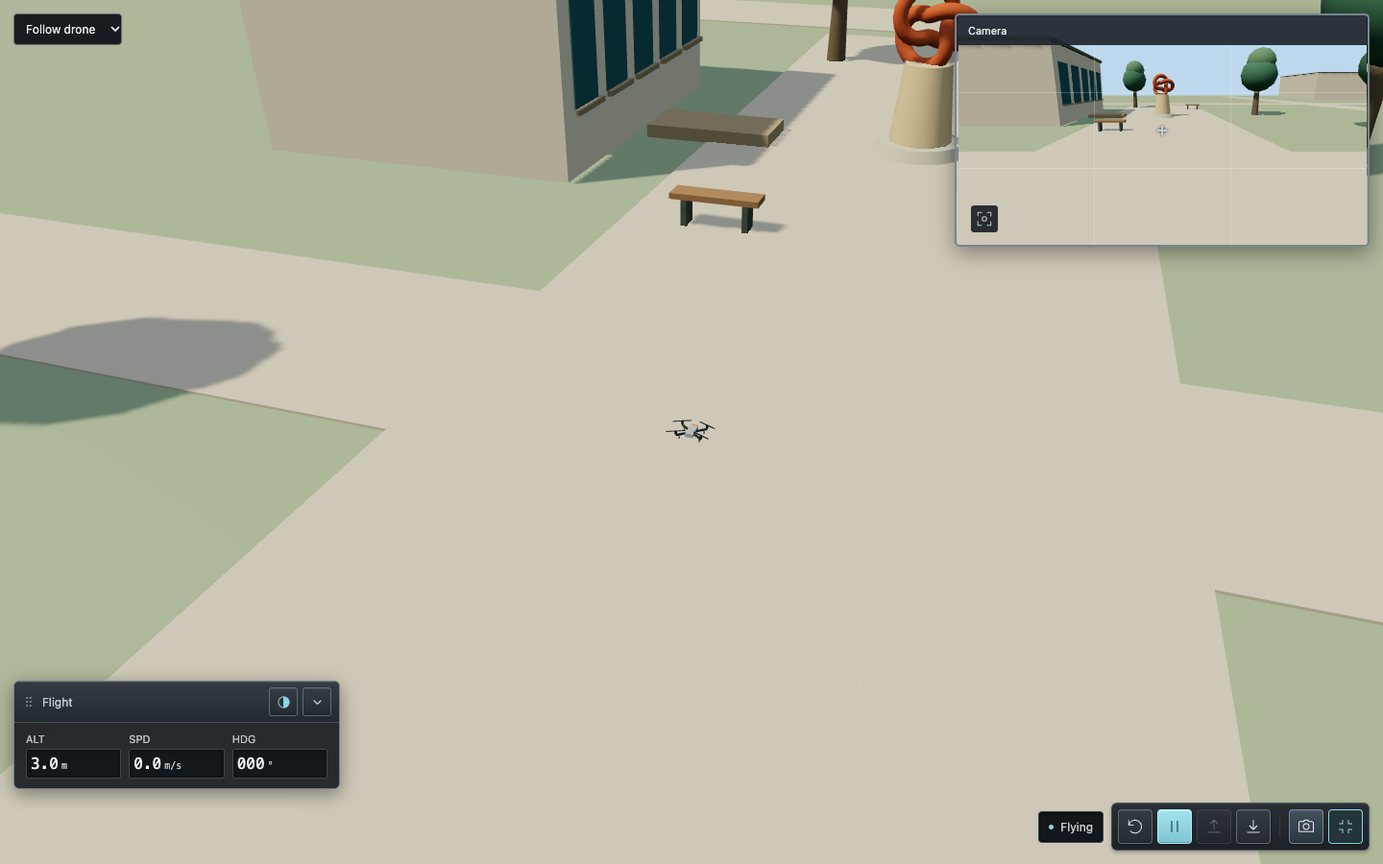
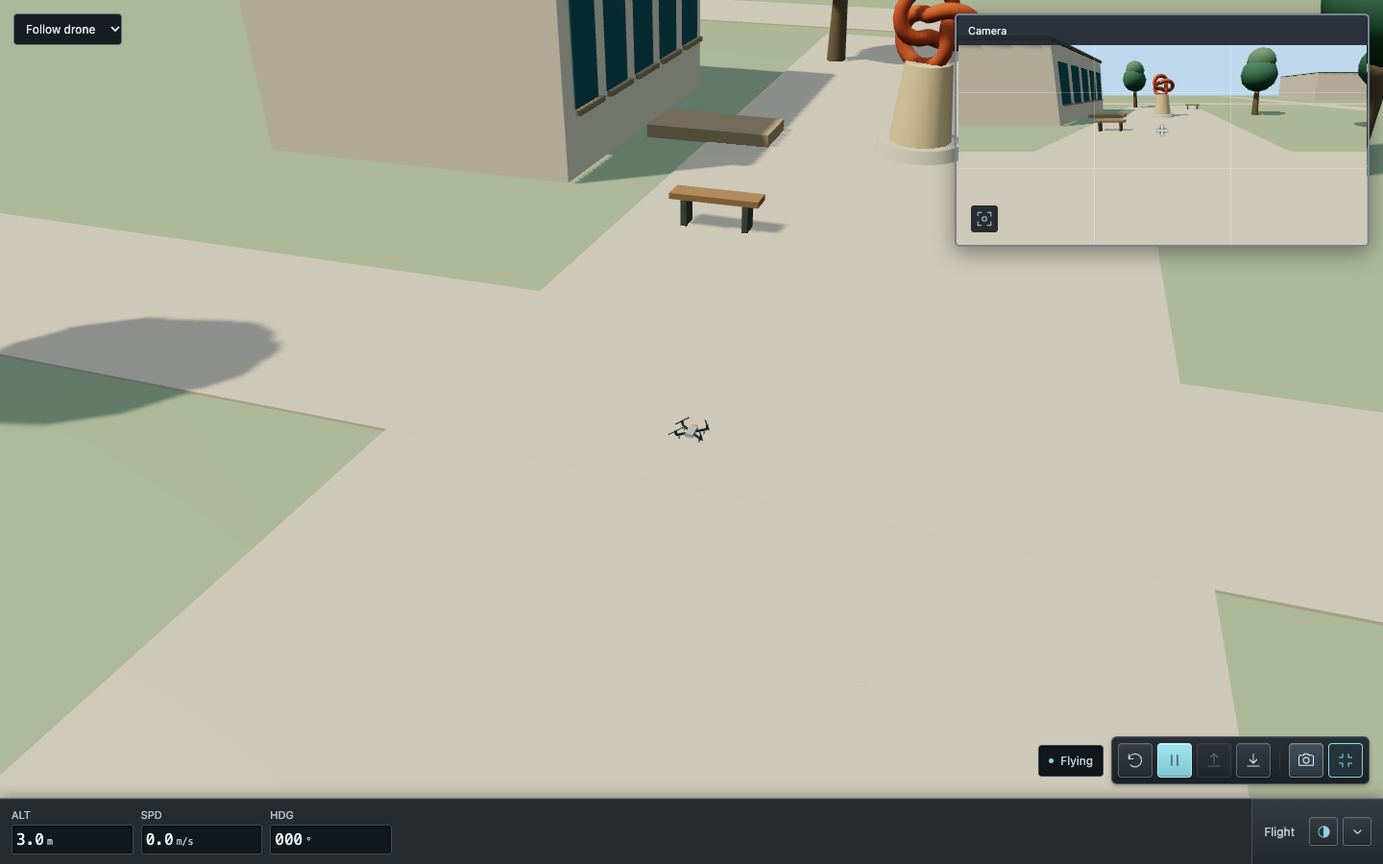
fix: removed floating window

Changed region(s): [[0.0, 0.7778, 1.0, 1.0]]

diff --git a/src/workspace.css b/src/workspace.css
@@ -75,7 +75,7 @@
 .layout-option { border: 1px solid #606c76; border-radius: 3px; background: linear-gradient(#343b42, #252b31); color: #d0d8de; box-shadow: inset 0 1px #ffffff12, inset 0 -1px #0005; }
 .layout-option[aria-pressed=true] { background: #25343a; color: var(--accent); border-color: var(--accent); }
 .layout-option:hover { color: var(--text); background: #30373d; }
-.layout-option:focus-visible, .instrument-button:focus-visible, .panel-handle:focus-visible { outline: 2px solid var(--accent); outline-offset: 2px; }
+.layout-option:focus-visible, .instrument-button:focus-visible { outline: 2px solid var(--accent); outline-offset: 2px; }
 .simulator .workspace-bar .button { color: #d0d8de; }
 .split-controls { display: flex; align-items: center; padding-left: 10px; border-left: 1px solid var(--line); }
 .flight-status { display: inline-flex; align-items: center; gap: 7px; margin-left: auto; padding: 8px 10px; color: #c4ccd2; font: var(--text-sm) var(--ui); white-space: nowrap; border: 1px solid #3a444d; background: #11171b; border-radius: 4px; box-shadow: inset 0 1px 3px #0008, 0 1px #ffffff08; }
@@ -118,28 +118,25 @@
 .view-divider:hover, .view-divider:focus-visible, .is-resizing .view-divider { background-color: var(--accent); }
 .view-divider:focus-visible { outline: 1px solid var(--accent); outline-offset: 0; }
 .is-resizing { user-select: none; }
-.flight-panel { position: absolute; z-index: 5; width: 432px; max-width: calc(100% - 28px); background: #1c2024; border: 1px solid #70808c; border-radius: 6px; box-shadow: inset 0 1px #ffffff15, 0 5px 18px #0006; overflow: hidden; container-type: inline-size; }
+.flight-panel { position: absolute; z-index: 5; bottom: 0; left: 0; width: 100%; max-width: none; display: grid; grid-template-columns: minmax(0, 1fr) auto; background: #1c2024; border: 0; border-top: 1px solid #70808c; border-radius: 0; box-shadow: inset 0 1px #ffffff15, 0 -3px 12px #0004; overflow: hidden; container-type: inline-size; }
 .flight-panel.is-glass { background: #161a1ee6; backdrop-filter: blur(10px); -webkit-backdrop-filter: blur(10px); }
-.flight-panel.is-dragging { border-color: var(--accent); }
-.instrument-header { display: flex; align-items: center; gap: 5px; border-bottom: 1px solid #46505a; padding: 6px 8px; background: linear-gradient(#394149c9, #222930c9); box-shadow: inset 0 1px #ffffff12; }
-.panel-handle { display: flex; align-items: center; gap: 7px; flex: 1; min-width: 0; min-height: 30px; border: 0; padding: 5px 0; text-align: left; background: transparent; font: var(--text-sm) var(--ui); color: #c4ccd2; cursor: grab; touch-action: none; }
-.panel-handle:active { cursor: grabbing; }
-.drag-grip { display: inline-flex; color: var(--muted); }
-.drag-grip .ui-icon { width: 14px; height: 14px; }
+.instrument-header { grid-column: 2; grid-row: 1; display: flex; align-items: center; gap: 5px; border-left: 1px solid #46505a; padding: 8px 12px; background: linear-gradient(#394149c9, #222930c9); box-shadow: inset 0 1px #ffffff12; }
+.instrument-title { margin-right: 10px; font: var(--text-sm) var(--ui); color: #c4ccd2; }
 .instrument-button { display: inline-flex; align-items: center; justify-content: center; width: 30px; height: 30px; background: linear-gradient(#343b42, #252b31); border: 1px solid #606c76; border-radius: 3px; padding: 0; color: #d0d8de; box-shadow: inset 0 1px #ffffff12, inset 0 -1px #0005; }
 .instrument-button .ui-icon { width: 15px; height: 15px; }
 .instrument-button:hover { border-color: var(--control-border); color: var(--text); }
 .instrument-button[aria-pressed=true] { color: var(--accent); }
-.simulator .telemetry { background: transparent; border: 0; padding: 15px 14px 13px; gap: 10px; grid-template-columns: repeat(4, minmax(0, 1fr)); }
+.simulator .telemetry { grid-column: 1; grid-row: 1; width: 100%; max-width: 640px; background: transparent; border: 0; padding: 12px 14px; gap: 10px; grid-template-columns: repeat(4, minmax(0, 1fr)); }
 .simulator .telemetry > div > span:first-child { font: var(--text-xs) var(--ui); color: #bac4cb; text-transform: uppercase; letter-spacing: 0; white-space: nowrap; }
 .simulator .telemetry strong { display: flex; align-items: baseline; gap: 4px; font: 24px var(--mono); font-variant-numeric: tabular-nums; color: #f0f3f5; margin-top: 7px; padding: 7px 5px; border: 1px solid #3d4851; border-radius: 3px; background: #10161be6; box-shadow: inset 0 1px 4px #0009, 0 1px #ffffff08; letter-spacing: 0; white-space: nowrap; }
 .simulator .telemetry small { font: 10px var(--mono); color: #bac4cb; letter-spacing: 0; }
 .instrument-scale { height: 2px; background: #63717b; margin-top: 10px; }
 .instrument-scale i { display: block; height: 100%; width: 0; background: var(--accent); }
-.simulator .gimbal-control { flex: none; background: #11171b55; padding: 11px 14px 15px; border-top: 1px solid #3d4851; }
+#flight-panel-body { grid-column: 1 / -1; display: flex; align-items: center; border-top: 1px solid #3d4851; background: #11171b55; }
+.simulator .gimbal-control { flex: 1; min-width: 0; max-width: 500px; background: transparent; padding: 10px 14px 12px; border: 0; }
 .simulator .gimbal-control label { color: #bac4cb; font: var(--text-xs) var(--ui); letter-spacing: 0; margin-bottom: 8px; }
 .simulator .gimbal-control input { display: block; margin: 0; height: 14px; cursor: ew-resize; filter: drop-shadow(0 1px 1px #0006); }
-.instrument-footer { display: flex; justify-content: flex-end; border-top: 1px solid var(--line); padding: 8px 14px; font: var(--text-xs) var(--mono); color: #bac4cb; font-variant-numeric: tabular-nums; }
+.instrument-footer { display: flex; justify-content: flex-end; margin-left: auto; border: 0; padding: 8px 14px; font: var(--text-xs) var(--mono); color: #bac4cb; font-variant-numeric: tabular-nums; white-space: nowrap; }
 .instrument-footer strong { color: #f0f3f5; font-weight: 400; }
 .simulator .flight-strip { position: relative; z-index: 6; padding: 12px 0; gap: 22px; }
 .simulator .flight-strip [data-tooltip]::after { top: auto; bottom: calc(100% + 9px); }
@@ -162,8 +159,7 @@
 .simulator dialog { background: var(--panel); border-color: var(--control-border); border-radius: 4px; }
 .simulator .map-credit { font-size: var(--text-xs); color: var(--muted); }
 .simulator .map-credit a { color: var(--accent); }
-.simulator .flight-panel.is-collapsed { width: 340px; }
-.simulator .flight-panel.is-collapsed .telemetry { grid-template-columns: repeat(3, minmax(0, 1fr)); padding: 10px 12px; gap: 8px; }
+.simulator .flight-panel.is-collapsed .telemetry { max-width: 420px; grid-template-columns: repeat(3, minmax(0, 1fr)); padding: 10px 12px; gap: 8px; }
 .simulator .flight-panel.is-collapsed .telemetry > div:last-child, .simulator .flight-panel.is-collapsed .instrument-scale { display: none; }
 .simulator .flight-panel.is-collapsed .telemetry strong { font-size: 16px; gap: 3px; margin-top: 4px; padding: 5px 4px; }
 .collision-prompt { position: absolute; z-index: 12; top: 50%; left: 50%; transform: translate(-50%, -50%); width: 360px; max-width: calc(100% - 32px); padding: 22px; border: 1px solid #ab8860; border-radius: 7px; background: linear-gradient(#302c27, #20201f); box-shadow: inset 0 1px #fff1, 0 12px 40px #0007; }
@@ -191,10 +187,8 @@
 .simulator [data-layout=classic] .camera-column { container-type: normal; display: flex; flex-direction: column; align-items: stretch; justify-content: flex-start; }
 .simulator [data-layout=classic] .camera-title { position: static; padding: 14px; background: var(--panel); }
 .simulator [data-layout=classic] .camera-view { width: 100%; margin: 0 auto; }
-.simulator [data-layout=classic] .flight-panel { position: static; width: 100%; max-width: none; flex: none; margin-top: auto; border: 0; border-top: 1px solid var(--line); border-radius: 0; box-shadow: none; background: var(--panel); backdrop-filter: none; -webkit-backdrop-filter: none; }
-.simulator [data-layout=classic] .panel-handle { opacity: 1; cursor: default; }
-.simulator [data-layout=classic] .drag-grip { display: none; }
-.simulator [data-layout=classic] #panel-glass { display: none; }
+.simulator [data-layout=classic] .flight-panel { position: static; width: 100%; max-width: none; flex: none; margin-top: auto; border: 0; border-top: 1px solid var(--line); border-radius: 0; box-shadow: none; }
+.simulator [data-layout=classic] .instrument-title { display: none; }
 
 @media (min-width: 1800px) {
   .simulator { padding-inline: 40px; }
@@ -247,8 +241,10 @@
   .simulator .view-options { justify-content: flex-start; flex-wrap: wrap; gap: 13px; }
 }
 /* Fit readings to the instrument width, including the narrow Classic sidebar. */
-@container (max-width: 410px) {
+@container (max-width: 560px) {
   .simulator .telemetry { grid-template-columns: repeat(2, minmax(0, 1fr)); }
+  .instrument-header { flex-direction: column; justify-content: center; padding: 8px; }
+  .instrument-title { display: none; }
 }
 body.flight-fullscreen { overflow: hidden; }
 .simulator.is-fullscreen { position: relative; width: 100%; height: 100dvh; min-height: 0; padding: 0; display: block; overflow: hidden; background: #181c20; }
@@ -263,13 +259,9 @@ body.flight-fullscreen { overflow: hidden; }
 .simulator.is-fullscreen[data-layout=observer] .camera-column { display: none; }
 .simulator.is-fullscreen[data-layout=camera] .camera-column { position: relative; inset: auto; grid-column: 1; grid-row: 1; width: 100%; height: 100%; aspect-ratio: auto; border: 0; border-radius: 0; box-shadow: none; }
 .simulator.is-fullscreen[data-layout=camera] .camera-title { display: none; }
-.simulator.is-fullscreen .flight-panel { position: absolute; width: 432px; max-width: calc(100% - 28px); margin: 0; border: 1px solid #70808c; border-radius: 6px; box-shadow: inset 0 1px #ffffff15, 0 5px 18px #0006; background: #1c2024; }
+.simulator.is-fullscreen .flight-panel { position: absolute; bottom: 0; left: 0; width: 100%; max-width: none; margin: 0; border: 0; border-top: 1px solid #70808c; border-radius: 0; box-shadow: inset 0 1px #ffffff15, 0 -3px 12px #0004; background: #1c2024; }
 .simulator.is-fullscreen .flight-panel.is-glass { background: #161a1ee6; backdrop-filter: blur(10px); -webkit-backdrop-filter: blur(10px); }
-.simulator.is-fullscreen .flight-panel.is-collapsed { width: 340px; }
-.simulator.is-fullscreen .drag-grip, .simulator.is-fullscreen #panel-glass { display: inline-flex; }
-.simulator.is-fullscreen .panel-handle { cursor: grab; }
-.simulator.is-fullscreen .panel-handle:active { cursor: grabbing; }
-.simulator.is-fullscreen .flight-strip { position: absolute; z-index: 7; right: 14px; bottom: 14px; display: flex; flex-wrap: wrap; align-items: center; justify-content: flex-end; gap: 8px; max-width: calc(100% - 28px); padding: 0; margin: 0; border: 0; }
+.simulator.is-fullscreen .flight-strip { position: absolute; z-index: 7; right: 14px; bottom: calc(var(--flight-data-height, 84px) + 14px); display: flex; flex-wrap: wrap; align-items: center; justify-content: flex-end; gap: 8px; max-width: calc(100% - 28px); padding: 0; margin: 0; border: 0; }
 .simulator.is-fullscreen .flight-actions { gap: 5px; flex-wrap: nowrap; }
 .simulator.is-fullscreen .flight-status { margin-left: 0; }
 .simulator.is-fullscreen .flight-strip :is(.view-options, .source-control) { display: none; }

diff --git a/tests/browser/trainer.spec.ts b/tests/browser/trainer.spec.ts
@@ -181,8 +181,11 @@ test('hidden laptop pauses flight and camera-only mode stays usable', async ({ p
   await expect(page.locator('#flight-status')).toHaveAttribute('data-mode', 'grounded');
 });
 
-test('workspace layouts resize, instruments move and preferences persist', async ({ page }) => {
+test('workspace layouts resize, instruments stay docked and preferences persist', async ({ page }) => {
   const errors: string[] = []; page.on('pageerror', (error) => errors.push(error.message));
+  await page.addInitScript(() => {
+    if (!localStorage.getItem('trainer-workspace-v1')) localStorage.setItem('trainer-workspace-v1', JSON.stringify({ panelX: 1, panelY: 0 }));
+  });
   await page.goto('/'); await expect(page.locator('#connection-status')).toContainText('Keyboard');
   await expect(page.locator('.station-brand')).toHaveText('TAKEOFF');
   await expect(page.getByText('Paused', { exact: true })).toHaveCount(1);
@@ -205,11 +208,11 @@ test('workspace layouts resize, instruments move and preferences persist', async
   await expect(divider).toHaveAttribute('aria-valuenow', '47');
   const cameraBox = (await page.locator('#camera-view').boundingBox())!;
   expect(cameraBox.width / cameraBox.height).toBeCloseTo(16 / 9, 2);
-  const initialPanel = (await panel.boundingBox())!, handle = (await page.locator('#panel-handle').boundingBox())!;
-  await page.mouse.move(handle.x + handle.width / 2, handle.y + handle.height / 2);
-  await page.mouse.down(); await page.mouse.move(handle.x + handle.width / 2 + 160, handle.y + handle.height / 2 - 150); await page.mouse.up();
-  expect((await panel.boundingBox())!.x).toBeGreaterThan(initialPanel.x + 100);
-  expect((await panel.boundingBox())!.y).toBeLessThan(initialPanel.y - 100);
+  await expect(page.locator('#panel-handle')).toHaveCount(0);
+  const initialPanel = (await panel.boundingBox())!;
+  expect(initialPanel.x).toBeCloseTo(stageBox.x + 1, 0);
+  expect(initialPanel.width).toBeCloseTo(stageBox.width - 2, 0);
+  expect(initialPanel.y + initialPanel.height).toBeCloseTo(stageBox.y + stageBox.height - 1, 0);
   await page.locator('#panel-glass').click(); await expect(panel).not.toHaveClass(/is-glass/);
   await page.keyboard.press('Space'); await expect(panel).toHaveClass(/is-glass/);
   await expect(page.locator('#pause')).toHaveAttribute('aria-label', 'Start practice');
@@ -220,7 +223,9 @@ test('workspace layouts resize, instruments move and preferences persist', async
   await page.reload(); await expect(stage).toHaveAttribute('data-layout', 'split');
   await expect(divider).toHaveAttribute('aria-valuenow', '47');
   await expect(panel).not.toHaveClass(/is-glass/); await expect(page.locator('#flight-panel-body')).toBeHidden();
-  expect((await panel.boundingBox())!.x).toBeGreaterThan(initialPanel.x + 100);
+  expect((await panel.boundingBox())!.x).toBeCloseTo(initialPanel.x, 0);
+  const reloadedPanel = (await panel.boundingBox())!, reloadedStage = (await stage.boundingBox())!;
+  expect(reloadedPanel.y + reloadedPanel.height).toBeCloseTo(reloadedStage.y + reloadedStage.height - 1, 0);
   await page.locator('#panel-collapse').click();
   await page.getByRole('button', { name: 'Stacked', exact: true }).click(); await expect(stage).toHaveAttribute('data-layout', 'stacked');
   await expect(divider).toHaveAttribute('aria-orientation', 'horizontal');
@@ -234,7 +239,11 @@ test('workspace layouts resize, instruments move and preferences persist', async
   await expect(page.locator('#camera-view')).toBeVisible(); await expect(panel).toBeVisible();
   await page.locator('#pause').click(); await expect(page.locator('#flight-status')).toHaveAttribute('data-paused', 'true');
   await page.getByRole('button', { name: 'Classic', exact: true }).click();
-  await expect(page.locator('#camera-column #flight-panel')).toBeVisible(); await expect(page.locator('#panel-handle')).toBeDisabled();
+  await expect(page.locator('#camera-column #flight-panel')).toBeVisible();
+  const classicBackground = await panel.evaluate((element) => getComputedStyle(element).backgroundColor);
+  await page.locator('#panel-glass').click();
+  expect(await panel.evaluate((element) => getComputedStyle(element).backgroundColor)).not.toBe(classicBackground);
+  await page.locator('#panel-glass').click();
   await page.setViewportSize({ width: 1920, height: 720 });
   await expect.poll(async () => {
     const instruments = (await panel.boundingBox())!, workspace = (await stage.boundingBox())!;
@@ -257,6 +266,8 @@ test('workspace layouts resize, instruments move and preferences persist', async
     await page.getByRole('combobox', { name: 'View layout', exact: true }).selectOption(layout);
     await expect(page.locator('#observer-view')).toBeVisible(); await expect(panel).toBeVisible();
     expect(await page.evaluate(() => document.documentElement.scrollWidth)).toBeLessThanOrEqual(390);
+    const instruments = (await panel.boundingBox())!, workspace = (await stage.boundingBox())!;
+    expect(instruments.y + instruments.height).toBeCloseTo(workspace.y + workspace.height - 1, 0);
   }
   await page.getByRole('combobox', { name: 'View layout', exact: true }).selectOption('camera');
   await expect(page.locator('#observer-view')).toBeHidden(); await expect(panel).toBeVisible();
@@ -315,7 +326,7 @@ test('fullscreen fills the window with flight views and restores desktop compone
     expect((await stage.boundingBox())!).toEqual({ x: 0, y: 0, width, height });
     await expect.poll(async () => {
       const instruments = (await panel.boundingBox())!, controls = (await page.locator('#flight-console').boundingBox())!;
-      return instruments.x >= 0 && instruments.y >= 0 && instruments.x + instruments.width <= width && instruments.y + instruments.height <= controls.y && controls.x >= 0 && controls.x + controls.width <= width && controls.y + controls.height <= height;
+      return instruments.x === 0 && instruments.y >= 0 && instruments.width === width && Math.abs(instruments.y + instruments.height - height) < 1 && controls.x >= 0 && controls.x + controls.width <= width && controls.y + controls.height < instruments.y;
     }).toBe(true);
     for (const id of ['takeoff', 'land', 'capture', 'reset', 'simulator-fullscreen']) {
       const button = (await page.locator(`#${id}`).boundingBox())!;
@@ -336,10 +347,12 @@ test('fullscreen fills the window with flight views and restores desktop compone
     expect((await stage.boundingBox())!).toEqual(workspace);
     if (layout === 'camera') { await expect(page.locator('#observer-view')).toBeHidden(); await expect(page.locator('#camera-view')).toBeVisible(); }
     else { expect((await page.locator('#observer-view').boundingBox())!).toEqual(workspace); }
-    await expect(page.locator('#panel-handle')).toBeEnabled();
+    await expect(page.locator('#panel-handle')).toHaveCount(0);
+    const instruments = (await panel.boundingBox())!;
+    expect(instruments.y + instruments.height).toBeCloseTo(workspace.height, 0);
     await page.locator('#simulator-fullscreen').click(); await expect(root).not.toHaveClass(/is-fullscreen/);
     await expect(stage).toHaveAttribute('data-layout', layout);
-    if (layout === 'classic') { await expect(page.locator('#camera-column #flight-panel')).toBeVisible(); await expect(page.locator('#panel-handle')).toBeDisabled(); }
+    if (layout === 'classic') await expect(page.locator('#camera-column #flight-panel')).toBeVisible();
   }
 });
 

diff --git a/src/workspace.ts b/src/workspace.ts
@@ -8,19 +8,17 @@ type WorkspaceSettings = {
   stackedSplit: number;
   glass: boolean;
   collapsed: boolean;
-  panelX: number;
-  panelY: number;
 };
 
 const storageKey = 'trainer-workspace-v1';
-const defaults: WorkspaceSettings = { layout: 'split', split: 62, stackedSplit: 50, glass: true, collapsed: false, panelX: 0, panelY: 1 };
+const defaults: WorkspaceSettings = { layout: 'split', split: 62, stackedSplit: 50, glass: true, collapsed: false };
 const layouts: ViewLayout[] = ['split', 'stacked', 'camera', 'observer', 'classic'];
 const clamp = (value: number, min: number, max: number) => Math.max(min, Math.min(max, value));
 
 export function bindWorkspace(root: HTMLElement): { setFullscreen: (active: boolean) => void } {
   const el = <T extends HTMLElement = HTMLElement>(id: string) => root.querySelector<T>(`#${id}`)!;
   const stage = el('stage'), panel = el('flight-panel'), column = el('camera-column'), camera = el('camera-view');
-  const divider = el('view-divider'), handle = el<HTMLButtonElement>('panel-handle'), body = el('flight-panel-body');
+  const divider = el('view-divider'), body = el('flight-panel-body');
   const console = el('flight-console'), actions = root.querySelector<HTMLElement>('.flight-actions')!;
   const status = el('flight-status'), statusHome = status.parentElement!;
   const transport = el('transport-controls'), utility = el('utility-controls');
@@ -31,9 +29,9 @@ export function bindWorkspace(root: HTMLElement): { setFullscreen: (active: bool
   try {
     const saved = JSON.parse(localStorage.getItem(storageKey) ?? '{}') as Partial<WorkspaceSettings>;
     if (layouts.includes(saved.layout as ViewLayout)) settings.layout = saved.layout!;
-    for (const key of ['split', 'stackedSplit', 'panelX', 'panelY'] as const) {
+    for (const key of ['split', 'stackedSplit'] as const) {
       if (typeof saved[key] === 'number' && Number.isFinite(saved[key])) {
-        settings[key] = clamp(saved[key], key.endsWith('Split') || key === 'split' ? 25 : 0, key.endsWith('Split') || key === 'split' ? 75 : 1);
+        settings[key] = clamp(saved[key], 25, 75);
       }
     }
     if (typeof saved.glass === 'boolean') settings.glass = saved.glass;
@@ -48,16 +46,7 @@ export function bindWorkspace(root: HTMLElement): { setFullscreen: (active: bool
     const height = Math.max(0, column.clientHeight - column.querySelector<HTMLElement>('.camera-title')!.offsetHeight - panel.offsetHeight);
     camera.style.width = `${Math.min(column.clientWidth, height * 16 / 9)}px`;
   };
-  const panelSpace = () => ({
-    x: Math.max(0, stage.clientWidth - panel.offsetWidth - 28),
-    y: Math.max(0, stage.clientHeight - panel.offsetHeight - 14 - (fullscreen ? console.offsetHeight + 28 : 44)),
-  });
-  const positionPanel = () => {
-    if (docked()) return;
-    const inset = 14, { x: availableX, y: availableY } = panelSpace();
-    panel.style.left = `${inset + availableX * settings.panelX}px`;
-    panel.style.top = `${inset + availableY * settings.panelY}px`;
-  };
+  const updatePanelSize = () => { root.style.setProperty('--flight-data-height', `${panel.offsetHeight}px`); fitClassicCamera(); };
   const updateRatio = () => {
     stage.style.setProperty('--view-split', `${ratio()}%`);
     divider.setAttribute('aria-valuenow', String(Math.round(ratio())));
@@ -78,16 +67,13 @@ export function bindWorkspace(root: HTMLElement): { setFullscreen: (active: bool
     setIconButton(el<HTMLButtonElement>('panel-collapse'), collapsed ? 'expand' : 'collapse', collapsed ? 'Expand flight parameters' : 'Collapse flight parameters');
     el('panel-glass').setAttribute('aria-pressed', String(settings.glass));
     setIconButton(el<HTMLButtonElement>('panel-glass'), 'contrast', 'Transparent instrument panel', settings.glass ? 'Glass panel · switch to solid' : 'Solid panel · switch to glass');
-    handle.disabled = docked();
-    handle.setAttribute('aria-label', docked() ? 'Flight parameters docked in Classic layout' : 'Move flight parameters. Drag or use arrow keys.');
     if (docked()) {
       if (panel.parentElement !== column) column.append(panel);
-      panel.style.removeProperty('left'); panel.style.removeProperty('top');
     } else if (panel.parentElement !== stage) stage.append(panel);
     const adjustable = !fullscreen && (settings.layout === 'split' || settings.layout === 'stacked');
     divider.hidden = !adjustable;
     el('split-controls').hidden = !adjustable;
-    updateRatio(); positionPanel(); fitClassicCamera(); save();
+    updateRatio(); updatePanelSize(); save();
   };
   el<HTMLSelectElement>('view-layout').onchange = (event) => { settings.layout = (event.target as HTMLSelectElement).value as ViewLayout; apply(); };
   root.querySelectorAll<HTMLButtonElement>('[data-layout-option]').forEach((button) => {
@@ -125,34 +111,9 @@ export function bindWorkspace(root: HTMLElement): { setFullscreen: (active: bool
     event.preventDefault(); event.stopPropagation();
     setRatio(event.key === 'Home' ? 25 : event.key === 'End' ? 75 : ratio() + (event.key === increase ? 2 : -2)); save();
   };
-  let dragging: { id: number; x: number; y: number; left: number; top: number } | undefined;
-  handle.onpointerdown = (event) => {
-    if (event.button !== 0 || docked()) return;
-    event.preventDefault(); handle.focus();
-    dragging = { id: event.pointerId, x: event.clientX, y: event.clientY, left: panel.offsetLeft, top: panel.offsetTop };
-    handle.setPointerCapture(event.pointerId); panel.classList.add('is-dragging');
-  };
-  handle.onpointermove = (event) => {
-    if (!dragging || event.pointerId !== dragging.id) return;
-    const space = panelSpace();
-    settings.panelX = clamp((dragging.left + event.clientX - dragging.x - 14) / Math.max(1, space.x), 0, 1);
-    settings.panelY = clamp((dragging.top + event.clientY - dragging.y - 14) / Math.max(1, space.y), 0, 1);
-    positionPanel();
-  };
-  const finishDrag = (event: PointerEvent) => { if (event.pointerId === dragging?.id) { dragging = undefined; panel.classList.remove('is-dragging'); save(); } };
-  handle.onpointerup = finishDrag; handle.onpointercancel = finishDrag; handle.onlostpointercapture = finishDrag;
-  handle.onkeydown = (event) => {
-    if (!['ArrowLeft', 'ArrowRight', 'ArrowUp', 'ArrowDown', 'Home'].includes(event.key) || docked()) return;
-    event.preventDefault(); event.stopPropagation();
-    if (event.key === 'Home') { settings.panelX = 0; settings.panelY = 1; }
-    else if (event.key === 'ArrowLeft' || event.key === 'ArrowRight') settings.panelX = clamp(settings.panelX + (event.key === 'ArrowRight' ? 0.05 : -0.05), 0, 1);
-    else settings.panelY = clamp(settings.panelY + (event.key === 'ArrowDown' ? 0.05 : -0.05), 0, 1);
-    positionPanel(); save();
-  };
-  new ResizeObserver(() => { updateRatio(); positionPanel(); fitClassicCamera(); }).observe(stage);
-  new ResizeObserver(() => { positionPanel(); fitClassicCamera(); }).observe(panel);
+  new ResizeObserver(() => { updateRatio(); updatePanelSize(); }).observe(stage);
+  new ResizeObserver(updatePanelSize).observe(panel);
   new ResizeObserver(fitClassicCamera).observe(column);
-  new ResizeObserver(positionPanel).observe(console);
   matchMedia('(max-width: 760px)').addEventListener('change', updateRatio);
   apply();
   return { setFullscreen: (active) => {

diff --git a/src/simulator.ts b/src/simulator.ts
@@ -51,7 +51,7 @@ export async function mount(app: HTMLElement): Promise<void> {
         <div id="view-divider" class="view-divider" role="separator" tabindex="0" aria-label="Resize observer and camera views" aria-orientation="vertical" aria-valuemin="25" aria-valuemax="75" aria-valuenow="62"><span></span></div>
         <aside id="camera-column" class="camera-column"><div class="camera-title"><span>Camera</span><span class="camera-spec" title="16:9 · 64° field of view · 1280 × 720 PNG captures" tabindex="0" aria-label="Camera specifications">${icon('info')}</span></div><div id="camera-view" class="camera-view view"><div id="thirds" class="thirds"><i></i><i></i><i></i><i></i></div><div class="camera-crosshair">+</div><div class="camera-caption"><span id="framing" tabindex="0" role="img" aria-label="Subject not framed" title="Subject not framed">${icon('frame')}</span></div></div></aside>
         <section id="flight-panel" class="flight-panel is-glass" aria-label="Flight parameters">
-          <header class="instrument-header"><button id="panel-handle" class="panel-handle" aria-label="Move flight parameters. Drag or use arrow keys." title="Move flight parameters · drag or use arrow keys"><span class="drag-grip" aria-hidden="true">${icon('grip')}</span>Flight</button><button id="panel-glass" class="instrument-button" aria-label="Transparent instrument panel" aria-pressed="true" title="Glass panel · switch to solid">${icon('contrast')}</button><button id="panel-collapse" class="instrument-button collapse-button" aria-label="Collapse flight parameters" aria-expanded="true" aria-controls="flight-panel-body" title="Collapse flight parameters">${icon('collapse')}</button></header>
+          <header class="instrument-header"><span class="instrument-title">Flight</span><button id="panel-glass" class="instrument-button" aria-label="Transparent instrument panel" aria-pressed="true" title="Glass panel · switch to solid">${icon('contrast')}</button><button id="panel-collapse" class="instrument-button collapse-button" aria-label="Collapse flight parameters" aria-expanded="true" aria-controls="flight-panel-body" title="Collapse flight parameters">${icon('collapse')}</button></header>
           <div class="telemetry" aria-label="Flight readings"><div><span title="Altitude above the ground directly below the drone">ALT</span><strong id="altitude">0.0 <small>m</small></strong><div class="instrument-scale"><i id="altitude-scale"></i></div></div><div><span title="Horizontal ground speed">SPD</span><strong id="speed">0.0 <small>m/s</small></strong><div class="instrument-scale"><i id="speed-scale"></i></div></div><div><span title="Heading">HDG</span><strong id="heading">000 <small>°</small></strong></div><div><span title="Camera gimbal tilt">GMB</span><strong id="gimbal-value">−12 <small>°</small></strong></div></div><div id="flight-panel-body"><div class="gimbal-control"><label for="gimbal" title="Camera tilt · R / F · −90° to +20°">Tilt</label><input id="gimbal" type="range" min="-90" max="20" value="-12" aria-label="Camera gimbal angle" title="Camera tilt · R / F · −90° to +20°"></div><div class="instrument-footer"><span title="Vertical speed · positive while climbing">V/S <strong id="vertical-speed">+0.0</strong> m/s</span></div></div>
         </section>
         <section id="collision-prompt" class="collision-prompt" role="alertdialog" aria-modal="false" aria-labelledby="collision-title" aria-describedby="collision-details" hidden><div class="collision-heading">${icon('warning')}<h2 id="collision-title">Collision</h2></div><p id="collision-details"></p><button id="collision-reset" class="button">${icon('reset')}<span>Reset flight</span></button></section>

diff --git a/src/icons.ts b/src/icons.ts
@@ -24,7 +24,6 @@ const paths = {
   contrast: '<circle cx="12" cy="12" r="9"/><path d="M12 3v18"/><path d="M12 3a9 9 0 0 1 0 18Z" fill="currentColor" stroke="none"/>',
   collapse: '<path d="m6 15 6-6 6 6"/>',
   expand: '<path d="m6 9 6 6 6-6"/>',
-  grip: '<g fill="currentColor" stroke="none"><circle cx="9" cy="5" r="1.5"/><circle cx="15" cy="5" r="1.5"/><circle cx="9" cy="12" r="1.5"/><circle cx="15" cy="12" r="1.5"/><circle cx="9" cy="19" r="1.5"/><circle cx="15" cy="19" r="1.5"/></g>',
   warning: '<path d="m12 3 10 18H2Z"/><path d="M12 9v5m0 3v1"/>',
   frame: '<path d="M8 3H3v5m13-5h5v5M3 16v5h5m13-5v5h-5"/><circle cx="12" cy="12" r="3"/>',
 } as const;

diff --git a/README.md b/README.md
@@ -4,7 +4,7 @@ Practice camera-drone flight and photo composition on your laptop. Fly with the 
 
 The observer view shows where the drone is going. The drone camera shows the resulting composition. Use both to learn how heading, movement, and camera tilt affect a shot, then switch to **Camera only** to practice framing without the observer view.
 
-![Takeoff flight station with adjustable observer and drone camera views and floating flight instruments](docs/images/workspace.png)
+![Takeoff flight station with adjustable observer and drone camera views and bottom flight instruments](docs/images/workspace.png)
 
 ## What you can practice
 
@@ -13,7 +13,7 @@ The observer view shows where the drone is going. The drone camera shows the res
 - **Photography:** tilt the stabilized camera, use the thirds grid, frame the orange sculpture, and download camera photos as PNGs.
 - **Coordinated movement:** use both phone sticks together for slow reveals and changes of viewpoint.
 - **Free flight:** take off, explore, reset a flight, and use fullscreen for more space.
-- **Flexible workspace:** choose camera-only, observer-only, adjustable side-by-side or stacked views, or the Classic sidebar. Move, collapse, and restyle the flight instruments; workspace preferences are saved locally.
+- **Flexible workspace:** choose camera-only, observer-only, adjustable side-by-side or stacked views, or the Classic sidebar. Collapse and restyle the bottom flight instruments; workspace preferences are saved locally.
 - **Campus photography:** choose Ateneo de Manila's Loyola Heights campus and start near one of ten landmarks, or explore the expanded 240 × 240 m practice park.
 - **Speed and terrain:** fly up to 20 m/s, choose slower 5 or 10 m/s limits for framing, and practice over the campus's modeled elevation.
 
@@ -191,7 +191,7 @@ Keyboard flight requires focus on the simulator, away from menus and sliders. Th
 | Campus trees | Show or hide the Ateneo acacias and their collisions. The setting is saved between visits. |
 | Side by side | Show both views with an adjustable divider. Drag the divider, or focus it and use arrow keys, to change the proportions. On narrow screens the views stack. |
 | Stacked | Arrange the observer above the camera with an adjustable horizontal divider. |
-| Camera only | Practice from the drone camera with floating flight instruments. |
+| Camera only | Practice from the drone camera with flight instruments fixed at the bottom. |
 | Observer only | Use the full workspace for the observer, with flight instruments and capture controls still available. |
 | Classic | Use the original observer and camera sidebar arrangement, with flight instruments docked below the camera. |
 | Fullscreen | Fill the window with flight views, compact instruments, and flight controls; restore the desktop workspace when you exit. |
@@ -205,7 +205,7 @@ Desktop controls use icons in separate modules with raised buttons and recessed 
 
 The layout icons select the viewing arrangement. **Equalize views** gives both views equal space; **Reset workspace** restores the default side-by-side layout and instrument settings. The drone camera keeps a 16:9 frame as the views resize, matching exported photos.
 
-The **Flight** instrument panel floats in all layouts except desktop Classic. Drag its title to place it anywhere inside the workspace, or focus the title and use arrow keys to move it (**Home** returns it to the lower left). The half-filled circle switches between a translucent glass display and an opaque panel; the chevron collapses or expands the instruments. A collapsed panel keeps live altitude, speed, and heading visible, while hiding gimbal and vertical-speed details. Layout, divider proportions, instrument position, transparency, and collapse state are saved in this browser. Instruments remain within the workspace when the window resizes or fullscreen changes.
+The **Flight** instrument panel is fixed to the bottom of the workspace; desktop Classic keeps it beneath the camera. In fullscreen, flight controls sit above the data strip. The half-filled circle switches between a translucent glass display and an opaque panel; the chevron collapses or expands the instruments. A collapsed panel keeps live altitude, speed, and heading visible, while hiding gimbal and vertical-speed details. Layout, divider proportions, transparency, and collapse state are saved in this browser. Instruments remain anchored when the window resizes or fullscreen changes.
 
 **Altitude · AGL** is height above the drone's resting position on the ground directly below it, **Ground speed** is horizontal speed, **Heading** is the drone's direction in degrees, and **Gimbal tilt** is the camera's vertical angle, from −90° to +20°. **V/S** shows vertical speed, positive while climbing. The altitude and speed scales show their values relative to the map ceiling and selected speed limit. Flying horizontally maintains world altitude, so clearance decreases over rising terrain. Takeoff climbs 3 m above the launch point; landing follows the local terrain.
 
@@ -278,7 +278,7 @@ npm run build
 npm run test:browser
 ```
 
-Unit and WebSocket integration tests cover flight behavior, map boundaries, campus launch clearance, polygon collisions, stale input, controller ownership, reconnection, revocation, action deduplication, and USB forwarding. Browser tests use installed Google Chrome by default and start a production server on port **8081**; build first and keep that port free. They cover map/spot switching, photo preservation, direct keyboard and phone takeoff, takeoff readiness after pauses and resets, all workspace layouts, divider resizing, instrument movement and saved preferences, keyboard operation of panel controls, fullscreen, narrow and short windows, PNG export, simultaneous touch input, release/cancellation, and disconnect/background pauses.
+Unit and WebSocket integration tests cover flight behavior, map boundaries, campus launch clearance, polygon collisions, stale input, controller ownership, reconnection, revocation, action deduplication, and USB forwarding. Browser tests use installed Google Chrome by default and start a production server on port **8081**; build first and keep that port free. They cover map/spot switching, photo preservation, direct keyboard and phone takeoff, takeoff readiness after pauses and resets, all workspace layouts, divider resizing, bottom instrument placement and saved preferences, keyboard operation of panel controls, fullscreen, narrow and short windows, PNG export, simultaneous touch input, release/cancellation, and disconnect/background pauses.
 
 To use Playwright's Chromium instead:
 

diff --git a/docs/DESIGN.md b/docs/DESIGN.md
@@ -1,6 +1,6 @@
 # Takeoff UI design
 
-Takeoff is a flight and photography simulator. Its identity should come from the observer view, camera composition, flight instruments, and controller workflow. The desktop header stays limited to its logo and title. Preserve adjustable layouts, floating instruments, the optional glass surface, and compact icon controls.
+Takeoff is a flight and photography simulator. Its identity should come from the observer view, camera composition, flight instruments, and controller workflow. The desktop header stays limited to its logo and title. Preserve adjustable layouts, the fixed bottom instrument panel, its optional glass surface, and compact icon controls. Flight data has no drag handle or position settings; Classic docks it beneath the camera, and fullscreen keeps flight actions above the bottom strip.
 
 The controls should feel like cockpit or amplifier components: distinct control banks, raised keys, restrained faceplate gradients, and recessed numeric displays. Use these details to show grouping, depth, and interaction. Add no visible group labels merely to explain the styling. Fullscreen is a flight workspace: hide desktop setup and branding, fill the window with the observer and camera views, and retain compact instruments and flight actions. A collapsed instrument panel continues to show altitude, speed, and heading. Collision recovery has a persistent reset prompt in both modes.
 
@@ -18,7 +18,7 @@ Our review of Takeoff identified small text, blue tint across nearly every surfa
 | Accent color applied everywhere | Use neutral graphite surfaces. Cyan identifies selected controls, focus, and the primary action; amber and red indicate actual flight states. |
 | Tiny labels and tracked capitals used to suggest technical depth | Use readable sans-serif labels. Keep monospace and tabular numerals for telemetry and performance measurements. |
 | Decorative HUD furniture | Retain the composition grid, center mark, and framing feedback. Avoid corner brackets, fake scan lines, ornamental gauges, and invented station identifiers. |
-| Decorative effects without a functional role | Confine glass to flight instruments. Use dark backing for legibility, subtle neutral bevels to identify controls, and shadows to separate movable panels. |
+| Decorative effects without a functional role | Confine glass to flight instruments. Use dark backing for legibility, subtle neutral bevels to identify controls, and borders and shadows to separate components. |
 | Icons that require guesswork | Use consistent SVG icons, accessible names, keyboard focus, and descriptive context. Keep flight state, connection state, units, and menu values visible. |
 | A polished screenshot with incomplete behavior | Check resizing, fullscreen, keyboard use, touch input, disabled actions, disconnection, and real photo export. |
 
